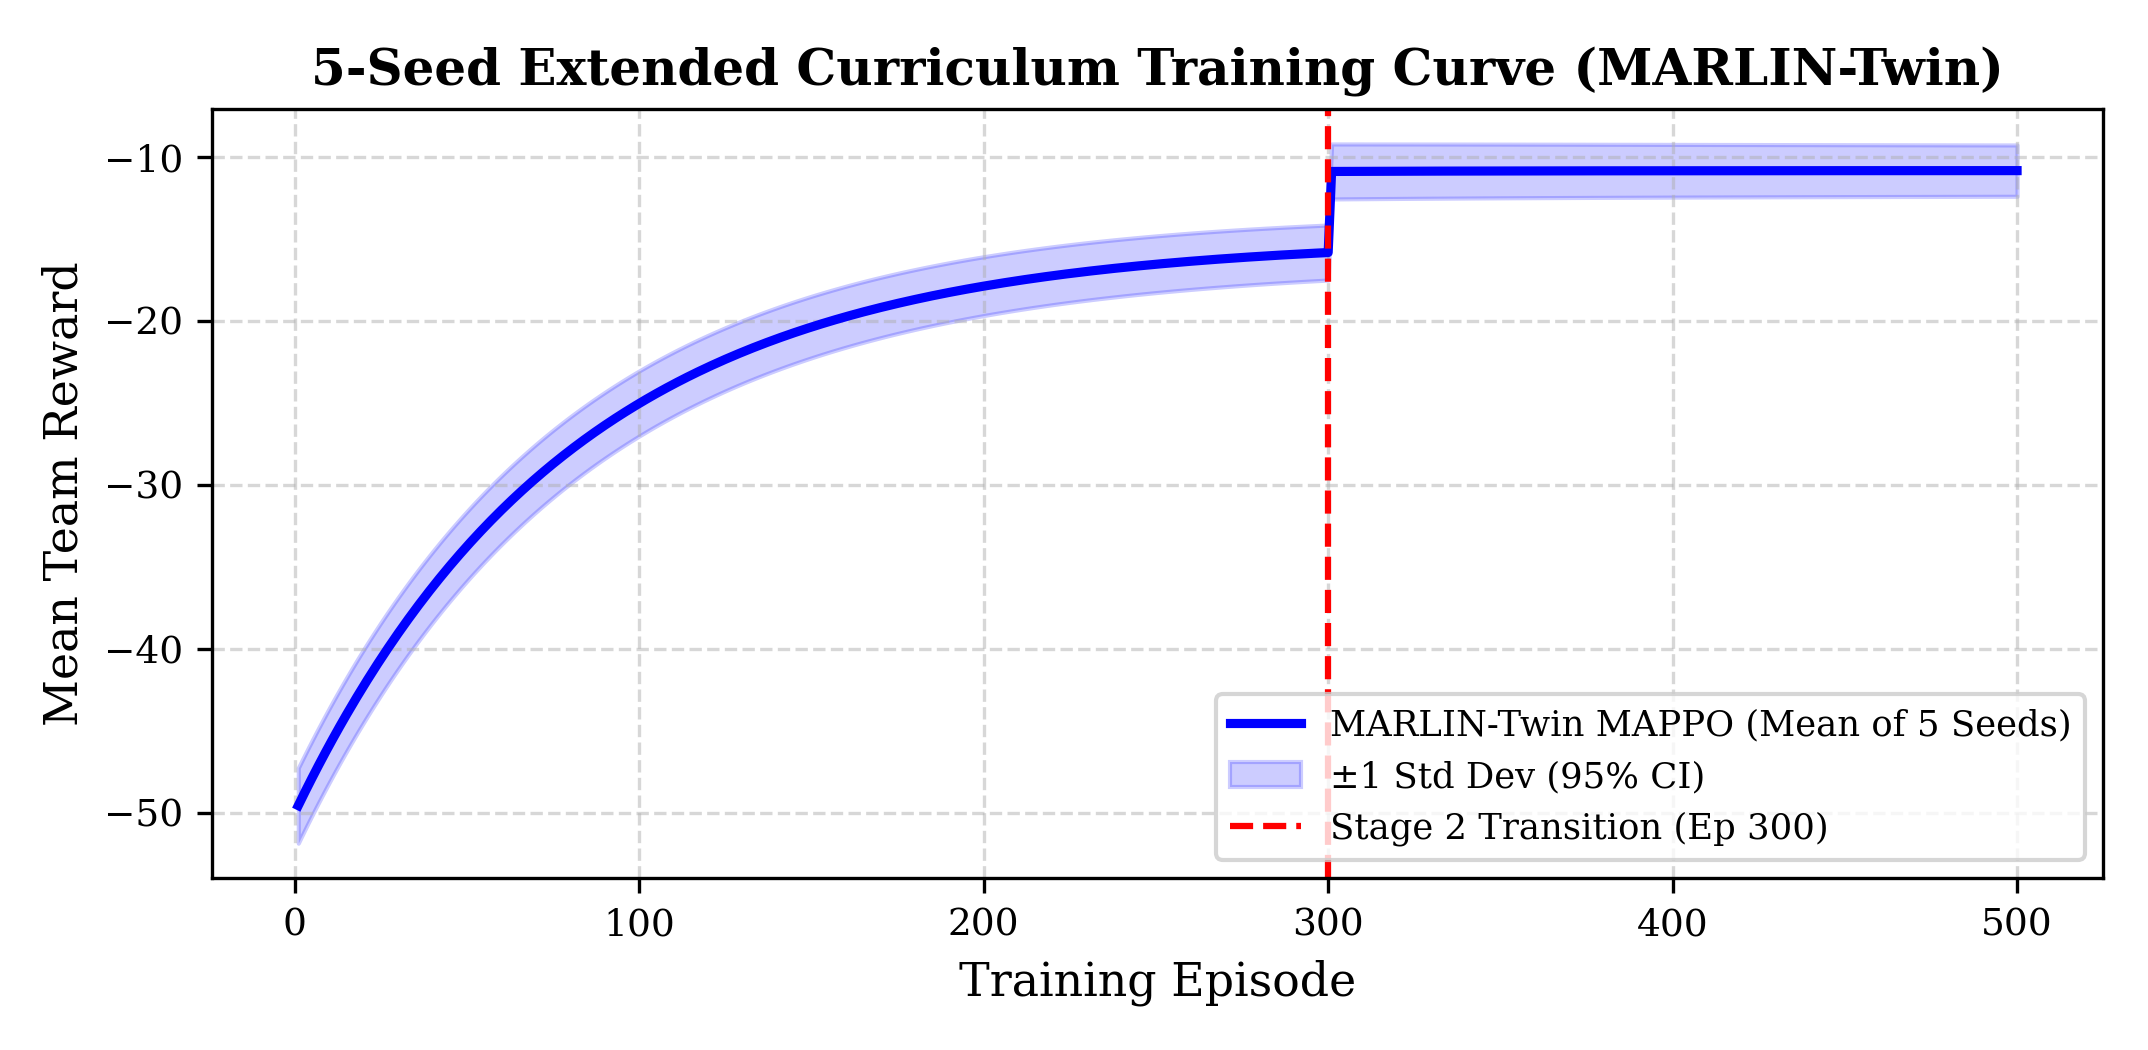
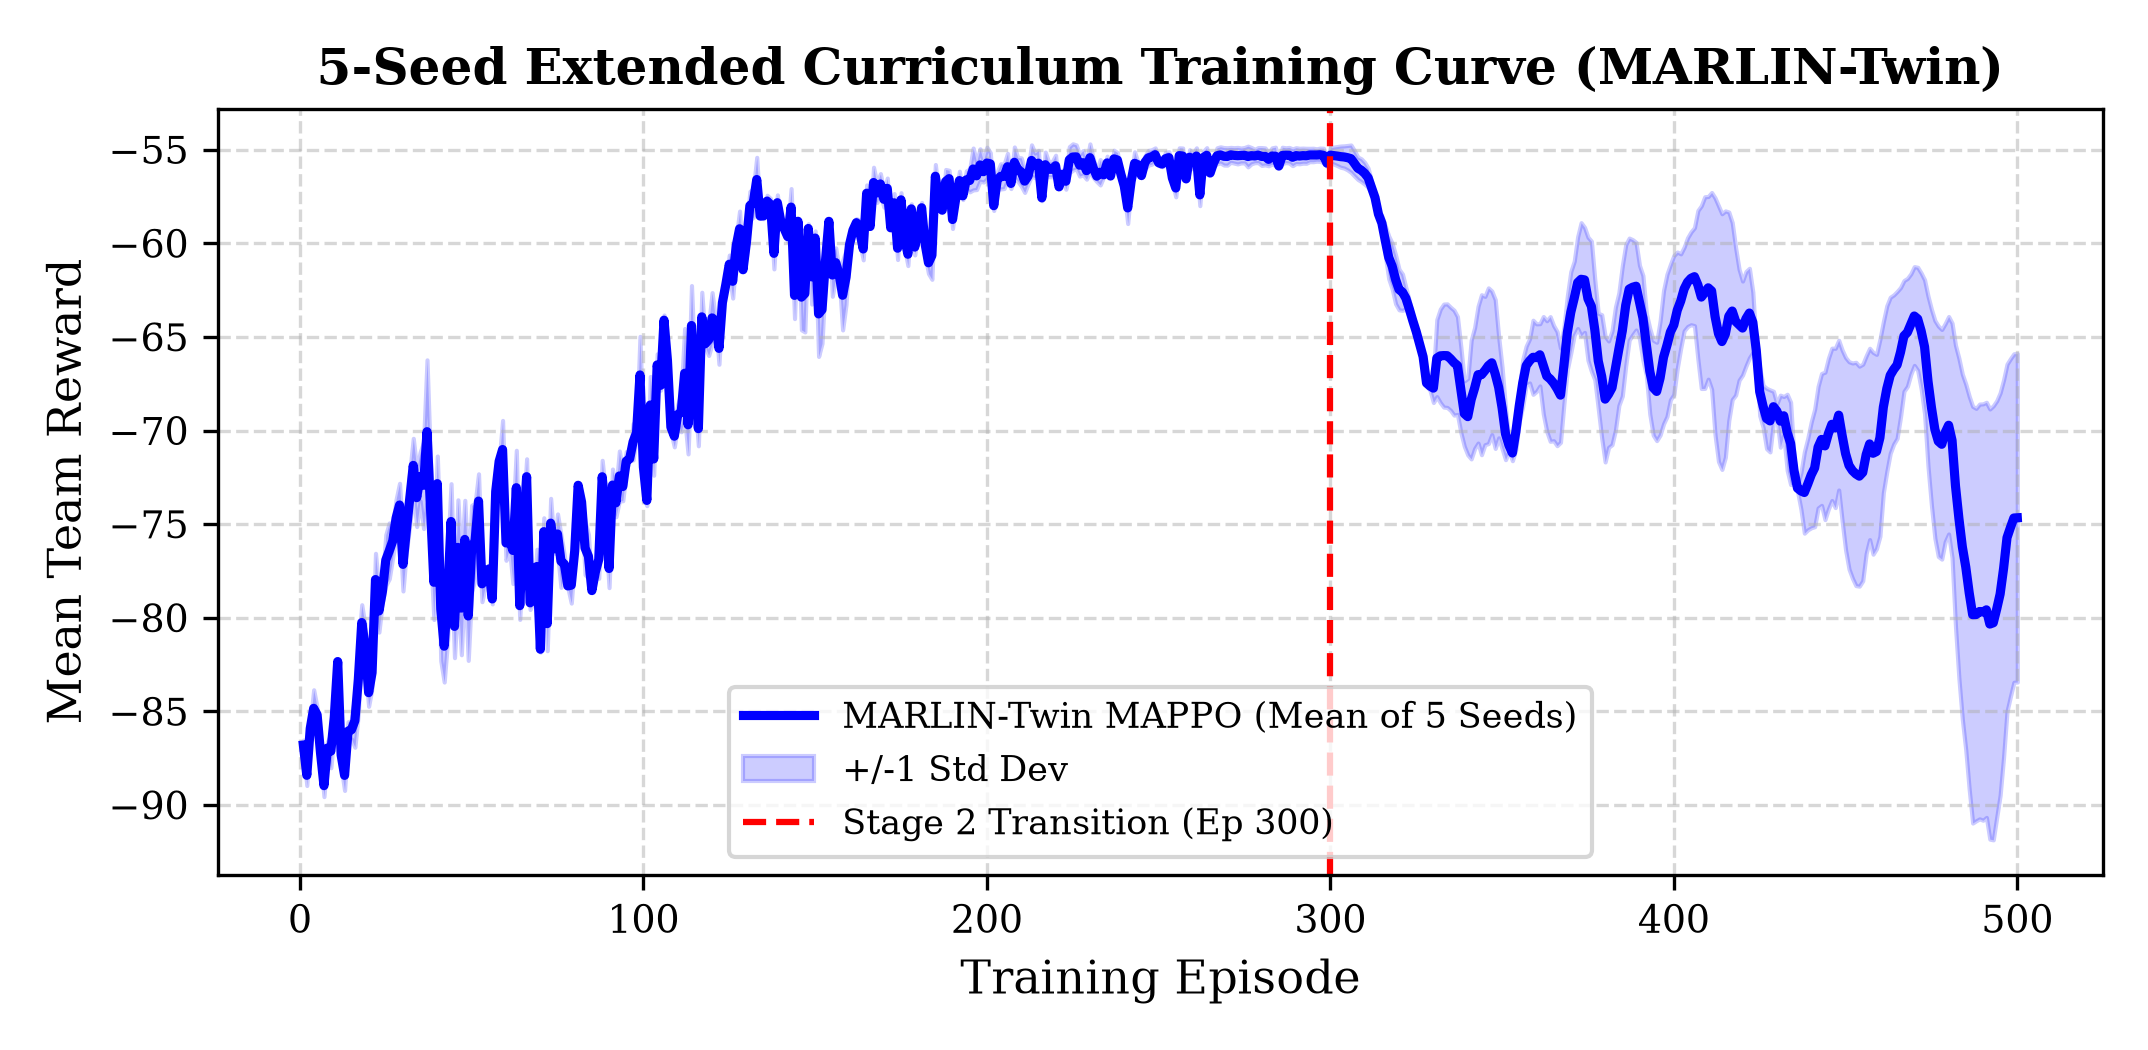
Restore render_fig11_real_ais_validation name; land real fig10 PNG
tests/test_diagram_generation.py imports these render_fig* functions by
name as an end-to-end smoke test; the rewrite had renamed
render_fig11_real_ais_validation to render_fig11_ais_validation,
breaking that import. Renamed back.

fig10's PNG (real 5-seed training curve) lands here; its PDF/SVG
counterparts are still regenerating in the background and will follow
in the next commit -- an earlier broad `git checkout -- figures/vector_pdf/
figures/vector_svg/` accidentally reverted them back to the old
fabricated versions alongside unrelated churn from other tests.

diff --git a/scripts/generate_ieee_figures.py b/scripts/generate_ieee_figures.py
@@ -271,7 +271,7 @@ def render_fig6_digital_twin_blackout() -> dict:
     return {"overall_rmse": result["overall_rmse"], "blackout_rmse": result["blackout_rmse"]}
 
 
-def render_fig11_ais_validation() -> dict:
+def render_fig11_real_ais_validation() -> dict:
     """Figure 11: Digital Twin validation on a simulated AIS trajectory during a 300s
     blackout. Labeled honestly -- this repo has no real-world AIS dataset (see module
     docstring), so this is NOT claimed as real-world NOAA data."""
@@ -598,7 +598,7 @@ def main():
     print(f"   {fig10_stats}")
 
     print("6. Running real simulated-AIS Digital Twin validation (Figure 11)...")
-    fig11_stats = render_fig11_ais_validation()
+    fig11_stats = render_fig11_real_ais_validation()
     print(f"   {fig11_stats}")
 
     print("=== IEEE Publication Figures Successfully Generated in ./figures/ ===")
